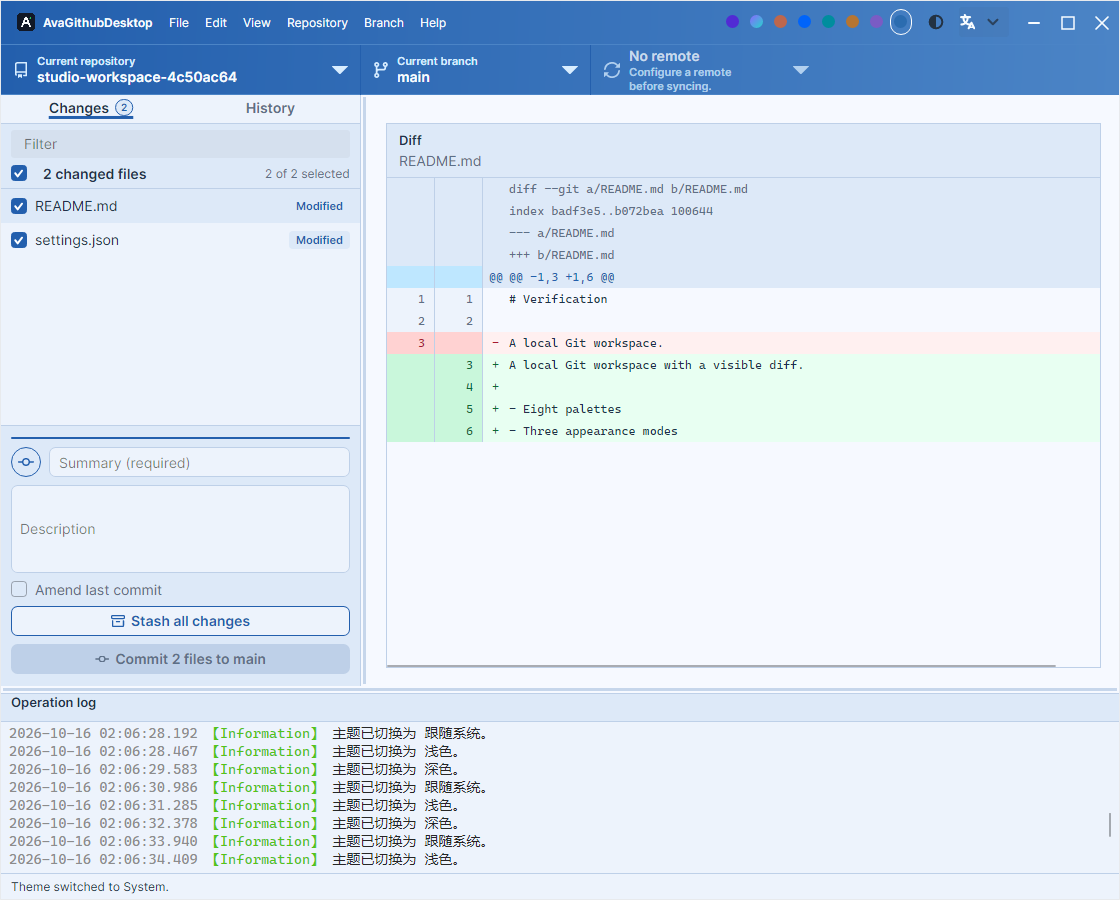
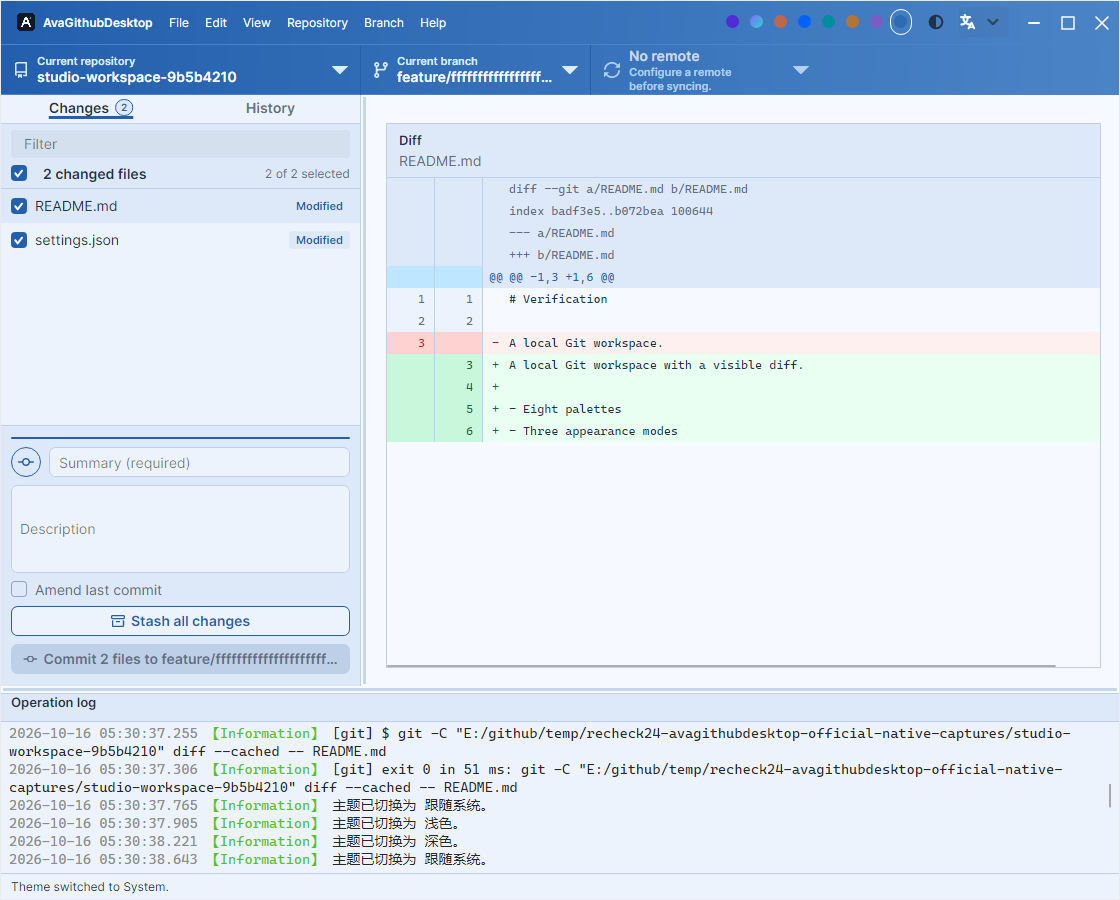
chore(发布): 更新0.118.0.18原生截图与验收记录

diff --git a/design/index.html b/design/index.html
@@ -197,7 +197,7 @@ html[data-palette="night-sky"][data-theme="dark"] {
 .swatches button[data-palette="dotnet"]{background:#512BD4}.swatches button[data-palette="aurora"]{background:#8968FF}.swatches button[data-palette="ember"]{background:#BD674D}.swatches button[data-palette="default"]{background:#0064FA}.swatches button[data-palette="aquatic"]{background:#008D9E}.swatches button[data-palette="desert"]{background:#B57532}.swatches button[data-palette="dusk"]{background:#7A5CC4}.swatches button[data-palette="night-sky"]{background:#2B6CB0}
 
 </style><style>
-*{box-sizing:border-box}html,body{margin:0;width:100%;height:100%;overflow:hidden;font:14px "Segoe UI","Microsoft YaHei UI",sans-serif;background:var(--bg);color:var(--ink)}[hidden]{display:none!important}button,input,textarea,select{font:inherit;color:inherit}button{cursor:pointer;background:transparent;border:1px solid transparent;border-radius:4px;padding:5px 8px;text-align:left}button:disabled{cursor:default;opacity:.45}button:hover{background:var(--raised)}input,textarea,select{border:1px solid var(--line);background:var(--panel);border-radius:4px;outline:none;padding:5px 8px}input:focus,textarea:focus{border-color:var(--accent);box-shadow:0 0 0 1px var(--accent)}select{text-align:left}input[type=checkbox]{accent-color:var(--accent);width:16px;height:16px;margin:0}button:focus-visible,select:focus-visible{outline:2px solid var(--accent);outline-offset:1px}.win{width:100%;height:100%;min-width:960px;min-height:620px;display:flex;flex-direction:column;border:1px solid var(--line);position:relative;color:var(--ink);background:var(--bg);border-radius:0;box-shadow:none}.spacer{flex:1}.top{height:44px;min-height:44px;display:flex;gap:8px;align-items:center;background:linear-gradient(115deg,var(--start),var(--secondary));color:white;padding:0 0 0 15px;border:0;font-size:12px}.app-icon{height:18px;width:18px}.top b{white-space:nowrap}.top nav{display:flex;gap:0;height:100%;align-items:center}.top nav>button{color:white;font-size:12px;padding:8px}.top nav>button:hover{background:#ffffff20}.top select{height:28px;min-width:96px;max-width:108px;background:#ffffff22;color:white;border-color:transparent;font-size:11.5px}.top select option{background:var(--panel);color:var(--ink)}.top .swatches{display:flex;gap:2px;flex-shrink:0}.swatches button{width:22px;height:26px;border:0;background:transparent!important;padding:5px}.swatches button:before{content:"";display:block;width:13px;height:13px;border-radius:50%;background:var(--swatch)}.swatches button[aria-pressed=true]{outline:1px solid white;border-radius:50%;outline-offset:-1px}.captions{display:flex;height:43px;margin-left:0}.captions button{height:43px;width:34px;text-align:center;color:white;font-size:20px;border-radius:0;padding:0}.captions button:last-child:hover{background:#c42b1c}.toolbar{height:50px;flex:none;display:flex;background:linear-gradient(115deg,var(--start),var(--secondary));color:white}.selector{height:50px;border-radius:0;border-right:1px solid #ffffff15;display:flex;gap:12px;align-items:center;padding:3px 14px;width:230px;flex-shrink:0;color:white}.selector:first-child{width:360px}.selector span:nth-child(2){display:flex;flex-direction:column;align-items:flex-start;flex:1;min-width:0}.selector small{font-size:12px;color:#ffffffb5}.selector b{font-size:14px;white-space:nowrap;max-width:100%;overflow:hidden;text-overflow:ellipsis}.selector i{font-style:normal;color:#ffffffb5}.workspace{min-height:400px;flex:1;display:grid;grid-template-columns:360px 4px minmax(0,1fr)}.left{display:flex;flex-direction:column;background:var(--panel);overflow:hidden}.tabs{height:29px;flex:none;display:grid;grid-template-columns:1fr 1fr;border-bottom:1px solid var(--line)}.tabs button{text-align:center;padding:3px;font-weight:600;border-radius:0}.tabs button.selected{text-decoration:underline;color:var(--ink)}.tabs small{font-size:11px;border:1px solid var(--line);border-radius:8px;margin-left:4px;padding:0 3px}.file-area{flex:1;min-height:0;overflow:auto}.file-area>input{display:block;margin:6px 10px 3px;width:calc(100% - 20px);height:29px}#selection-header{height:28px;padding:0 10px;display:flex;align-items:center;gap:7px;font-size:14px}#selection-header small{margin-left:auto;font-size:12px;color:var(--dim)}.file-row{height:34px;display:flex;align-items:center;gap:7px;padding:0 10px;cursor:pointer}.file-row.selected{background:var(--raised)}.file-row span{flex:1}.file-row small{font-size:11px;color:var(--accent);background:var(--raised);border-radius:3px;padding:0 4px}.empty{padding:20px;color:var(--dim)}#commit-form{flex:none;padding:12px 10px;display:flex;flex-direction:column;gap:8px;border-top:1px solid var(--line)}#commit-form hr{border:0;border-top:2px solid var(--accent);margin:0 0 0} .summary-line{display:flex;align-items:center;gap:8px}.summary-line span{display:grid;place-items:center;flex:none;width:30px;height:30px;border-radius:50%;border:1px solid var(--accent);color:var(--accent);font-size:22px}.summary-line input{flex:1;min-width:0;height:30px}textarea{resize:none;height:88px;width:100%;font-size:14px}.amend{height:18px;display:flex;gap:8px;align-items:center}.outlined{border:1px solid var(--accent);color:var(--accent);height:30px;text-align:center}.primary{background:var(--raised);color:var(--accent);font-weight:600;text-align:center}#commit{height:30px;background:var(--accent);color:white}.vertical-splitter,.horizontal-splitter{background:var(--line);position:relative;touch-action:none}.vertical-splitter{cursor:col-resize}.horizontal-splitter{height:4px;flex:none;cursor:row-resize}.diff-zone{min-width:0;min-height:0;padding:28px 18px 20px 21px}.diff{height:100%;border:1px solid var(--line);overflow:hidden;background:var(--bg)}.diff-header{height:54px;display:flex;flex-direction:column;gap:4px;padding:6px 12px;background:var(--raised);border-bottom:1px solid var(--line)}.diff-header b{font-size:14px}.diff-header span{font-size:14px;color:var(--dim)}#diff-body{overflow:auto;height:calc(100% - 54px);font:12px/22px Consolas,"Cascadia Mono",monospace}.code-line{display:grid;grid-template-columns:48px 48px 1fr;white-space:pre;min-height:22px}.code-line>span{padding:0 8px}.code-line>span:not(:last-child){color:var(--dim);border-right:1px solid var(--line);text-align:right}.code-line.add{background:#2ea04325}.code-line.remove{background:#f8514922}.code-line.header{color:var(--dim);background:var(--raised)}.history-item{display:block;width:100%;padding:10px 14px;border-radius:0;border-bottom:1px solid var(--line)}.history-item b,.history-item small{display:block}.history-item small{font-size:12px;color:var(--dim);margin-top:4px}.history-item.selected{background:var(--raised)}.operation-log{height:180px;min-height:80px;flex:0 1 180px;background:var(--panel);overflow:hidden}.operation-log h3{height:29px;font-size:14px;font-weight:600;margin:0;padding:1px 10px;background:var(--raised);border-bottom:1px solid var(--line)}#log-lines{height:151px;padding:4px 8px;overflow:auto;font:12px/24px Consolas,"Microsoft YaHei UI",monospace;white-space:pre}.log-line time{color:var(--dim)}.log-line em{color:#5ba7ff;font-style:normal}footer{height:28px;flex:none;display:flex;gap:8px;align-items:center;padding:0 10px;border-top:1px solid var(--line);font-size:12px;background:var(--panel)}footer #version{color:var(--dim);font-size:11px}.popup{position:absolute;z-index:10;width:260px;max-height:70%;overflow:auto;box-shadow:0 8px 30px #0004;background:var(--panel);border:1px solid var(--line);padding:5px;border-radius:6px}.popup button{width:100%;display:flex;justify-content:space-between;align-items:center;gap:12px;font-size:12px;padding:6px 10px}.popup .sub{padding-left:23px}.popup hr{border:0;border-top:1px solid var(--line);margin:4px}.popup small{color:var(--dim)}dialog{color:var(--ink);background:var(--panel);border:1px solid var(--line);border-radius:0;max-height:95vh;max-width:95vw;overflow:auto;padding:24px}dialog::backdrop{background:#0005}#about-dialog{width:650px;height:650px;padding:0}.dialog-chrome{height:32px;padding-left:32px;display:flex;align-items:center;justify-content:space-between;background:linear-gradient(115deg,var(--start),var(--secondary));color:white;font-size:14px}.dialog-chrome button{height:32px;width:34px;font-size:22px;color:white;padding:0;text-align:center}.about-body{padding:24px}.about-head{margin-bottom:18px}.about-head img{width:40px;height:40px}.about-head h2{font-size:20px}.about-head p{font-size:14px;line-height:18px;margin:4px 0 0}.update-row{margin-bottom:18px;gap:8px;padding:14px;background:var(--raised)}.update-row p{font-size:14px;margin:4px 0 0;line-height:18px}.update-row:has(#update-status:empty) #update-status{display:none}.update-row #release-notes{grid-column:1/-1}.update-row button{font-size:14px}.about-info{font-size:14px;grid-template-columns:146px 1fr;gap:10px 16px}.about-info dd{margin:0;overflow-wrap:anywhere}.about-actions{margin-top:18px}.about-actions button{color:var(--accent)}#action-dialog{width:420px;border-radius:10px}#action-dialog h2{font-size:18px;margin-top:0}#action-value{width:100%;margin:18px 0}#action-content{font-size:14px;color:var(--dim);white-space:pre-wrap}.dialog-actions{display:flex;justify-content:flex-end;gap:10px}.toast{position:absolute;bottom:40px;left:50%;transform:translateX(-50%);padding:8px 16px;background:var(--ink);color:var(--panel);opacity:0;border-radius:5px;pointer-events:none}.toast.show{opacity:1}#relaunch{position:fixed;inset:0;display:grid;place-items:center;background:var(--bg)}#relaunch button{padding:12px 30px;background:var(--accent);color:white}@media(max-width:1180px){.top{gap:5px;padding-left:10px}.top nav>button{padding:8px 5px}.top select{min-width:90px;width:90px}.top .swatches{gap:0}.swatches button{width:20px}}@media(prefers-reduced-motion:no-preference){button,.toast{transition:background .12s,opacity .15s}}
+*{box-sizing:border-box}html,body{margin:0;width:100%;height:100%;overflow:hidden;font:14px "Segoe UI","Microsoft YaHei UI",sans-serif;background:var(--bg);color:var(--ink)}[hidden]{display:none!important}button,input,textarea,select{font:inherit;color:inherit}button{cursor:pointer;background:transparent;border:1px solid transparent;border-radius:4px;padding:5px 8px;text-align:left}button:disabled{cursor:default;opacity:.45}button:hover{background:var(--raised)}input,textarea,select{border:1px solid var(--line);background:var(--panel);border-radius:4px;outline:none;padding:5px 8px}input:focus,textarea:focus{border-color:var(--accent);box-shadow:0 0 0 1px var(--accent)}select{text-align:left}input[type=checkbox]{accent-color:var(--accent);width:16px;height:16px;margin:0}button:focus-visible,select:focus-visible{outline:2px solid var(--accent);outline-offset:1px}.win{width:100%;height:100%;min-width:960px;min-height:620px;display:flex;flex-direction:column;border:1px solid var(--line);position:relative;color:var(--ink);background:var(--bg);border-radius:0;box-shadow:none}.spacer{flex:1}.top{height:44px;min-height:44px;display:flex;gap:8px;align-items:center;background:linear-gradient(115deg,var(--start),var(--secondary));color:white;padding:0 0 0 15px;border:0;font-size:12px}.app-icon{height:18px;width:18px}.top b{white-space:nowrap}.top nav{display:flex;gap:0;height:100%;align-items:center}.top nav>button{color:white;font-size:12px;padding:8px}.top nav>button:hover{background:#ffffff20}.top select{height:28px;min-width:96px;max-width:108px;background:#ffffff22;color:white;border-color:transparent;font-size:11.5px}.top select option{background:var(--panel);color:var(--ink)}.top .swatches{display:flex;gap:2px;flex-shrink:0}.swatches button{width:22px;height:26px;border:0;background:transparent!important;padding:5px}.swatches button:before{content:"";display:block;width:13px;height:13px;border-radius:50%;background:var(--swatch)}.swatches button[aria-pressed=true]{outline:1px solid white;border-radius:50%;outline-offset:-1px}.captions{display:flex;height:43px;margin-left:0}.captions button{height:43px;width:34px;text-align:center;color:white;font-size:20px;border-radius:0;padding:0}.captions button:last-child:hover{background:#c42b1c}.toolbar{height:50px;flex:none;display:flex;background:linear-gradient(115deg,var(--start),var(--secondary));color:white}.selector{height:50px;border-radius:0;border-right:1px solid #ffffff15;display:flex;gap:12px;align-items:center;padding:3px 14px;width:230px;flex-shrink:0;color:white}.selector:first-child{width:360px}.selector span:nth-child(2){display:flex;flex-direction:column;align-items:flex-start;flex:1;min-width:0}.selector small{font-size:12px;color:#ffffffb5}.selector b{font-size:14px;white-space:nowrap;max-width:100%;overflow:hidden;text-overflow:ellipsis}.selector i{font-style:normal;color:#ffffffb5}.workspace{min-height:400px;flex:1;display:grid;grid-template-columns:360px 4px minmax(0,1fr)}.left{display:flex;flex-direction:column;background:var(--panel);overflow:hidden}.tabs{height:29px;flex:none;display:grid;grid-template-columns:1fr 1fr;border-bottom:1px solid var(--line)}.tabs button{text-align:center;padding:3px;font-weight:600;border-radius:0}.tabs button.selected{text-decoration:underline;color:var(--ink)}.tabs small{font-size:11px;border:1px solid var(--line);border-radius:8px;margin-left:4px;padding:0 3px}.file-area{flex:1;min-height:0;overflow:auto}.file-area>input{display:block;margin:6px 10px 3px;width:calc(100% - 20px);height:29px}#selection-header{height:28px;padding:0 10px;display:flex;align-items:center;gap:7px;font-size:14px}#selection-header small{margin-left:auto;font-size:12px;color:var(--dim)}.file-row{height:34px;display:flex;align-items:center;gap:7px;padding:0 10px;cursor:pointer}.file-row.selected{background:var(--raised)}.file-row span{flex:1}.file-row small{font-size:11px;color:var(--accent);background:var(--raised);border-radius:3px;padding:0 4px}.empty{padding:20px;color:var(--dim)}#commit-form{flex:none;padding:12px 10px;display:flex;flex-direction:column;gap:8px;border-top:1px solid var(--line)}#commit-form hr{border:0;border-top:2px solid var(--accent);margin:0 0 0} .summary-line{display:flex;align-items:center;gap:8px}.summary-line span{display:grid;place-items:center;flex:none;width:30px;height:30px;border-radius:50%;border:1px solid var(--accent);color:var(--accent);font-size:22px}.summary-line input{flex:1;min-width:0;height:30px}textarea{resize:none;height:88px;width:100%;font-size:14px}.amend{height:18px;display:flex;gap:8px;align-items:center}.outlined{border:1px solid var(--accent);color:var(--accent);height:30px;text-align:center}.primary{background:var(--raised);color:var(--accent);font-weight:600;text-align:center}#commit{height:30px;background:var(--accent);color:white;min-width:0;max-width:100%;white-space:nowrap;overflow:hidden;text-overflow:ellipsis}.vertical-splitter,.horizontal-splitter{background:var(--line);position:relative;touch-action:none}.vertical-splitter{cursor:col-resize}.horizontal-splitter{height:4px;flex:none;cursor:row-resize}.diff-zone{min-width:0;min-height:0;padding:28px 18px 20px 21px}.diff{height:100%;border:1px solid var(--line);overflow:hidden;background:var(--bg)}.diff-header{height:54px;display:flex;flex-direction:column;gap:4px;padding:6px 12px;background:var(--raised);border-bottom:1px solid var(--line)}.diff-header b{font-size:14px}.diff-header span{font-size:14px;color:var(--dim)}#diff-body{overflow:auto;height:calc(100% - 54px);font:12px/22px Consolas,"Cascadia Mono",monospace}.code-line{display:grid;grid-template-columns:48px 48px 1fr;white-space:pre;min-height:22px}.code-line>span{padding:0 8px}.code-line>span:not(:last-child){color:var(--dim);border-right:1px solid var(--line);text-align:right}.code-line.add{background:#2ea04325}.code-line.remove{background:#f8514922}.code-line.header{color:var(--dim);background:var(--raised)}.history-item{display:block;width:100%;padding:10px 14px;border-radius:0;border-bottom:1px solid var(--line)}.history-item b,.history-item small{display:block}.history-item small{font-size:12px;color:var(--dim);margin-top:4px}.history-item.selected{background:var(--raised)}.operation-log{height:180px;min-height:80px;flex:0 1 180px;background:var(--panel);overflow:hidden}.operation-log h3{height:29px;font-size:14px;font-weight:600;margin:0;padding:1px 10px;background:var(--raised);border-bottom:1px solid var(--line)}#log-lines{height:151px;padding:4px 8px;overflow:auto;font:12px/24px Consolas,"Microsoft YaHei UI",monospace;white-space:pre}.log-line time{color:var(--dim)}.log-line em{color:#5ba7ff;font-style:normal}footer{height:28px;flex:none;display:flex;gap:8px;align-items:center;padding:0 10px;border-top:1px solid var(--line);font-size:12px;background:var(--panel)}footer #version{color:var(--dim);font-size:11px}.popup{position:absolute;z-index:10;width:260px;max-height:70%;overflow:auto;box-shadow:0 8px 30px #0004;background:var(--panel);border:1px solid var(--line);padding:5px;border-radius:6px}.popup button{width:100%;display:flex;justify-content:space-between;align-items:center;gap:12px;font-size:12px;padding:6px 10px}.popup .sub{padding-left:23px}.popup hr{border:0;border-top:1px solid var(--line);margin:4px}.popup small{color:var(--dim)}dialog{color:var(--ink);background:var(--panel);border:1px solid var(--line);border-radius:0;max-height:95vh;max-width:95vw;overflow:auto;padding:24px}dialog::backdrop{background:#0005}#about-dialog{width:650px;height:650px;padding:0}.dialog-chrome{height:32px;padding-left:32px;display:flex;align-items:center;justify-content:space-between;background:linear-gradient(115deg,var(--start),var(--secondary));color:white;font-size:14px}.dialog-chrome button{height:32px;width:34px;font-size:22px;color:white;padding:0;text-align:center}.about-body{padding:24px}.about-head{margin-bottom:18px}.about-head img{width:40px;height:40px}.about-head h2{font-size:20px}.about-head p{font-size:14px;line-height:18px;margin:4px 0 0}.update-row{margin-bottom:18px;gap:8px;padding:14px;background:var(--raised)}.update-row p{font-size:14px;margin:4px 0 0;line-height:18px}.update-row:has(#update-status:empty) #update-status{display:none}.update-row #release-notes{grid-column:1/-1}.update-row button{font-size:14px}.about-info{font-size:14px;grid-template-columns:146px 1fr;gap:10px 16px}.about-info dd{margin:0;overflow-wrap:anywhere}.about-actions{margin-top:18px}.about-actions button{color:var(--accent)}#action-dialog{width:420px;border-radius:10px}#action-dialog h2{font-size:18px;margin-top:0}#action-value{width:100%;margin:18px 0}#action-content{font-size:14px;color:var(--dim);white-space:pre-wrap}.dialog-actions{display:flex;justify-content:flex-end;gap:10px}.toast{position:absolute;bottom:40px;left:50%;transform:translateX(-50%);padding:8px 16px;background:var(--ink);color:var(--panel);opacity:0;border-radius:5px;pointer-events:none}.toast.show{opacity:1}#relaunch{position:fixed;inset:0;display:grid;place-items:center;background:var(--bg)}#relaunch button{padding:12px 30px;background:var(--accent);color:white}@media(max-width:1180px){.top{gap:5px;padding-left:10px}.top nav>button{padding:8px 5px}.top select{min-width:90px;width:90px}.top .swatches{gap:0}.swatches button{width:20px}}@media(prefers-reduced-motion:no-preference){button,.toast{transition:background .12s,opacity .15s}}
 .win.maximized{position:fixed;inset:0;width:100vw;height:100vh;z-index:50}
 /* 历史视图沿用实际提交摘要、300 像素文件列与独立差异区。 */
 .history-diff{display:flex;flex-direction:column}.history-commit-header{min-height:76px;height:auto;flex:none;padding:12px;background:var(--panel);border-bottom:1px solid var(--line)}.history-commit-header>b{font-size:14px;line-height:20px}.history-commit-meta{display:flex;gap:14px;align-items:center;margin-top:4px;font-size:12px;white-space:nowrap;overflow:auto}.history-commit-meta>span:first-child{flex:1;color:var(--dim)}.history-commit-actions{display:flex;flex-wrap:wrap;gap:4px 8px;align-items:center;margin-top:6px;font-size:12px}.history-commit-actions>button{padding:2px 4px;font-size:12px;font-weight:600;color:var(--accent);white-space:nowrap}.history-diff-body{flex:1;min-height:0;display:grid;grid-template-columns:minmax(220px,min(300px,calc(100% - 246px))) 6px minmax(240px,1fr);overflow:auto}.history-files{background:var(--panel);border-right:1px solid var(--line)}.history-files-title{display:block;height:30px;text-align:center;line-height:30px;background:var(--raised);border-bottom:1px solid var(--line);font-size:12px}.history-file{height:38px;width:100%;display:grid;grid-template-columns:90px 1fr;gap:8px;align-items:center;padding:0 8px;border-radius:0}.history-file small{background:#092e1c;color:#5cffa4;font-size:11px;width:max-content;padding:0 6px;border-radius:3px}.history-file.selected{background:var(--raised)}.history-divider{background:var(--line);border:1px solid var(--bg)}.history-code{min-height:0;overflow:hidden}.history-code .diff-header{height:54px}.history-header{height:36px!important;background:var(--raised);border-bottom:1px solid var(--line)}.history-item{height:56px}.history-item b{white-space:nowrap;overflow:hidden;text-overflow:ellipsis}.history-item small{margin-top:2px}.about-info button.link{padding:0;color:var(--accent);font-size:14px}.about-info dd:first-of-type{width:max-content;padding:2px 10px;border-radius:9px;font-size:12px;font-weight:600;background:var(--raised);color:var(--accent)}.update-row>div{min-width:0}.update-row>button.primary{align-self:center;max-width:155px;min-width:110px}.code-line.hunk{background:#0f799c40;color:var(--accent)}.code-line.header{background:transparent}.code-line>span:last-child{color:var(--ink)}.code-line.add{background:#0c3d2580}.code-line.remove{background:#601c2a80}.code-line.hunk>span:last-child{color:var(--accent)}#diff-body:not(.side-by-side) .code-line.header>span:last-child{padding-left:26px;color:var(--accent)}#diff-body.side-by-side .code-line{grid-template-columns:1fr 1fr 2fr}#diff-body.side-by-side .code-line>span:first-child{background:var(--raised)}.top select{height:32px}.selector:first-child>span:first-child{font-size:18px}.selector i{font-size:20px}textarea{padding-top:32px}.tabs button.selected{text-decoration:underline;text-decoration-thickness:2px;text-underline-offset:3px}#commit-form{padding-bottom:14px;gap:8px}#commit:disabled{background:var(--line);color:var(--dim);opacity:1}.amend{color:var(--dim)}.outlined{font-weight:600}.summary-line input::placeholder,textarea::placeholder{color:var(--dim);opacity:1}.selector:hover{background:#ffffff12}.operation-log h3{font-weight:600}
@@ -217,7 +217,7 @@ body{padding:18px;background:radial-gradient(ellipse at top,#32334c,#13141e)}.wi
[1 lines of base64/hex data omitted]
 <div class="toolbar" data-region="toolbar"><button id="repository" class="selector"><span>▣</span><span><small data-key="CurrentRepository"></small><b id="repository-name"></b></span><i>▾</i></button><button id="branch" class="selector"><span>⑂</span><span><small data-key="CurrentBranch"></small><b id="branch-name">main</b></span><i>▾</i></button><button id="remote" class="selector"><span>⟳</span><span><b id="sync-name"></b><small id="sync-detail"></small></span><i>▾</i></button></div>
 <div class="workspace" data-region="workspace"><section class="left" data-region="left"><div class="tabs"><button id="changes-tab" data-view="changes" class="selected"><span data-key="Changes"></span><small id="changes-count"></small></button><button data-view="history" data-key="History"></button></div><div class="file-area"><input id="filter" data-placeholder="ChangesFilterPlaceholder"><div id="selection-header"><input id="select-all" type="checkbox" checked><b id="selection-title"></b><small id="selected-count"></small></div><div id="files"></div><div id="history" hidden></div></div><form id="commit-form" data-region="commit"><hr><div class="summary-line"><span>⊙</span><input id="summary" data-placeholder="CommitSummaryPlaceholder"></div><textarea id="description" data-placeholder="CommitDescriptionPlaceholder"></textarea><label class="amend"><input id="amend" type="checkbox"><span data-key="AmendLastCommit"></span></label><button id="stash" type="button" class="outlined" data-key="MenuStashAllChanges"></button><button id="commit" type="submit" class="primary"></button></form></section><div class="vertical-splitter" data-region="splitter"></div><section class="diff-zone" data-region="diff-zone"><article class="diff" data-region="diff"><div class="diff-header"><b id="diff-title">Diff</b><span id="diff-file">README.md</span></div><div id="diff-body"></div></article></section></div>
-<div class="horizontal-splitter" data-region="log-splitter"></div><section class="operation-log" data-region="log"><h3 data-key="OperationLog"></h3><div id="log-lines"></div></section><footer data-region="status"><span id="status"></span><span class="spacer"></span><span id="version">0.118.0.17</span></footer>
+<div class="horizontal-splitter" data-region="log-splitter"></div><section class="operation-log" data-region="log"><h3 data-key="OperationLog"></h3><div id="log-lines"></div></section><footer data-region="status"><span id="status"></span><span class="spacer"></span><span id="version">0.118.0.18</span></footer>
 <div class="popup" id="popup" hidden></div><div class="toast" id="toast" role="status"></div></main>
[1 lines of base64/hex data omitted]
 <dialog id="action-dialog"><form id="action-form"><h2 id="action-title"></h2><div id="action-content"></div><input id="action-value" autocomplete="off"><div class="dialog-actions"><button type="button" id="action-cancel" data-key="Cancel"></button><button type="submit" class="primary" id="action-confirm" data-key="Confirm"></button></div></form></dialog>
@@ -246,7 +246,7 @@ window.AVA_PRODUCT={"resources":{"zh-CN":{"AppTitle":"AvaGithubDesktop","MenuFil
   };
   const node = (tag,text,className) => { const item=document.createElement(tag); if(text!==undefined)item.textContent=text; if(className)item.className=className; return item; };
   const keyNode = (tag,key) => {const item=node(tag,t(key));item.dataset.key=key;return item;};
-  const version = '0.118.0.17';
+  const version = '0.118.0.18';
   const about = $('#about-dialog'), popup = $('#popup');
   let updateTimer, toastTimer, dialogAction, dialogKey;
   const scenario = new URLSearchParams(location.search).get('update')||'new';
@@ -302,6 +302,7 @@ window.AVA_PRODUCT={"resources":{"zh-CN":{"AppTitle":"AvaGithubDesktop","MenuFil
     if(!state.files.length)$('#files').append(node('div',t('NoChangesTitle'),'empty'));
     $('#history').replaceChildren(...state.history.map((entry,index)=>{const button=node('button',undefined,'history-item'+(state.selectedCommit===index?' selected':''));button.append(node('b',entry.summary),node('small',t('PrototypeAuthor')+' · '+entry.sha+' · '+t('PrototypeJustNow')));button.onclick=()=>{state.selectedCommit=index;renderDiff();renderWorkspace();};return button;}));
     $('#commit').textContent=$('#amend').checked?t('AmendLastCommitButton'):t(included===1?'CommitFileToBranchFormat':'CommitFilesToBranchFormat',included,state.branch);
+    $('#commit').title=$('#commit').textContent;
     $('#commit').disabled=!included||!$('#summary').value.trim();$('#stash').disabled=!state.files.length;
     renderDiff();
   }

diff --git a/docs/UI-VERIFICATION.md b/docs/UI-VERIFICATION.md
@@ -1,5 +1,11 @@
 # 原型与 NativeAOT 复核
 
+2026-10-16，版本 0.118.0.18：补查发现全局语言与标题栏下拉不同步，以及合法长分支名撑出提交按钮，均已修复。后台语言回归同时保持真实 Markdown 帮助窗打开，使用同一个实际下拉反向切回；升级 CodeWF.Avalonia 12.1.4.24 修复活跃查看器的跨线程更新。长分支来自临时真实 Git 仓库，检查按钮内部文本的几何边界、省略和完整提示；原型同步该约束并在最小窗口下审计。
+
+旧验证器在 `SetupWithoutStarting` 后才替换历史与账号服务，Prism 可能已创建持有真实服务的外壳。本轮改为在 `RegisterTypes` 中提前注入，避免触达真实历史；不能沿用旧文档中“仅因启动后注册替身即可保证隔离”的假设。回归还要求提交与暂存按钮恰好两项、历史操作恰好五项，避免空集合产生假阳性。
+
+0.118.0.18 已使用官方 NuGet 源及独立包缓存重新通过正式 Windows NativeAOT 发布、正式 EXE 隔离自检、PE 空 CLR 目录检查、EXE 安装器生成及独立 NativeAOT UI 完整验证。新增后台切语与同一下拉反向同步、活跃 Markdown 帮助窗、真实长分支内部文字边界，以及全部提交和历史操作数量断言，均已在最终原生验证器执行。README 的四张 PNG 与配色巡览 GIF 已替换为本轮原生结果并逐图查看；GIF 为四个实际视图的轮播，不是桌面交互录像。验证前后真实仓库历史文件的 SHA256 保持一致，本轮没有执行真实安装。
+
 2026-10-16，版本 0.118.0.17 补充：修复全局语言切换与第三方主题接线。验证器直接修改唯一 I18nManager，在同一个已打开的 Semi TextBox 上反复展开实际菜单，检查中英文复制、粘贴文案及 Ursa 对话框资源；宿主设置同键文案后继续回切，覆盖保持生效。主题字典保存在主题自身资源中，事件切换在 UI 线程执行。
 
 追加最小窗口内容回归后发现并修复 960×620 下暂存与提交按钮越界：限制日志实际高度，保持用户设置的首选高度；侧栏和历史文件列根据实际空间约束最大宽度，差异区保留可滚动空间。中英 Changes 1440×900、1120×900、960×620 六个布局均检查提交/暂存按钮及至少一行文件内容，History 最小窗口检查两个分栏；关于 560×450 检查更新按钮及滚动后的关闭按钮。验证显式打开隔离 Git 仓库，避开初始 Prism 外壳的异步初始化竞态。

diff --git a/.github/release-notes/v0.118.0.18.md b/.github/release-notes/v0.118.0.18.md
@@ -1,0 +1,11 @@
+# AvaGithubDesktop 0.118.0.18
+
+- 全局语言切换同步标题栏语言下拉及菜单状态，后台线程切语后可以使用同一个下拉切回。
+- 长分支名不会撑出提交按钮；受约束布局保留图标，操作文字超出时显示省略号，悬停可查看完整内容。原型同步该行为。
+- 升级 CodeWF.Avalonia 12.1.4.24，修复已打开的 Markdown 帮助窗口在后台切语时更新上下文菜单的跨线程异常。
+- 验证器在 Prism 首次创建外壳前注入隔离的账号和仓库历史服务，修正旧验证器注入时机过晚、可能写入真实历史的问题。
+- 增加后台切语、实际下拉反向同步、活跃 Markdown 帮助窗、长分支内部文字边界，以及提交和历史操作按钮数量的回归。
+
+本机已通过官方 NuGet 依赖恢复、正式 Windows NativeAOT 发布、正式 EXE 隔离自检、PE 无 CLR 检查、独立 NativeAOT 界面回归及 EXE 安装器生成。README 的四张 PNG 和配色巡览 GIF 已更新为本轮原生离屏结果。
+
+受控验证不执行真实安装器。离屏验证不替代人工键鼠、多 DPI、输入法及其他操作系统界面验收。

diff --git a/README.md b/README.md
@@ -1,10 +1,10 @@
-# AvaGithubDesktop
+# AvaGithubDesktop
 
 AvaGithubDesktop 是一个受 GitHub Desktop 启发的 Avalonia 桌面 Git 客户端。
 
 ## 仓库规范
 
-- 当前版本：`0.118.0.17`，版本号统一维护在根目录 `Directory.Build.props` 的 `<Version>` 节点。
+- 当前版本：`0.118.0.18`，版本号统一维护在根目录 `Directory.Build.props` 的 `<Version>` 节点。
 - NuGet 包项目统一支持 `net8.0;net10.0`；Demo、App、测试与内部应用项目统一使用 `net10.0` / `net10.0-windows`。
 - 根目录 `logo.svg`、`logo.png`、`logo.ico` 是唯一图标源，子工程只通过 MSBuild `Link` 引用，不维护图标副本。
 - 运行时帮助、Markdown 示例、内置备忘录、设计说明等业务文档按功能保留；仓库级入口文档使用根目录 `README.md` 和 `UpdateLog.md`。

diff --git a/UpdateLog.md b/UpdateLog.md
@@ -1,4 +1,10 @@
-# 更新日志
+# 更新日志
+
+## 0.118.0.18（2026-10-16）
+
+- 修复全局语言切换后标题栏下拉仍保留旧选项的问题，支持后台切语并从同一个控件切回。
+- 长分支名在提交按钮内省略显示并提供完整提示，原型同步；升级 CodeWF.Avalonia 12.1.4.24 修复活跃 Markdown 帮助窗后台切语异常。
+- 验证替身提前到 Prism 首次解析前注册，避免旧验证器触达真实账号和历史；新增真实子内容边界和按钮数量断言。
 
 ## 0.118.0.17（2026-10-16）
 

diff --git a/docs/更新日志.md b/docs/更新日志.md
@@ -1,4 +1,10 @@
-# 更新日志
+# 更新日志
+
+## 0.118.0.18（2026-10-16）
+
+- 修复全局语言切换后标题栏下拉仍保留旧选项的问题，支持后台切语并从同一个控件切回。
+- 长分支名在提交按钮内省略显示并提供完整提示，原型同步；升级 CodeWF.Avalonia 12.1.4.24 修复活跃 Markdown 帮助窗后台切语异常。
+- 验证替身提前到 Prism 首次解析前注册，避免旧验证器触达真实账号和历史；新增真实子内容边界和按钮数量断言。
 
 ## 0.118.0.17（2026-10-16）
 
